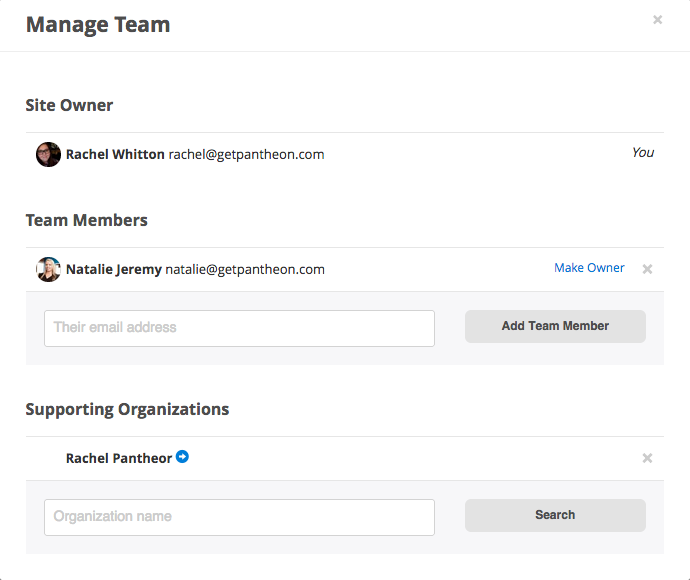
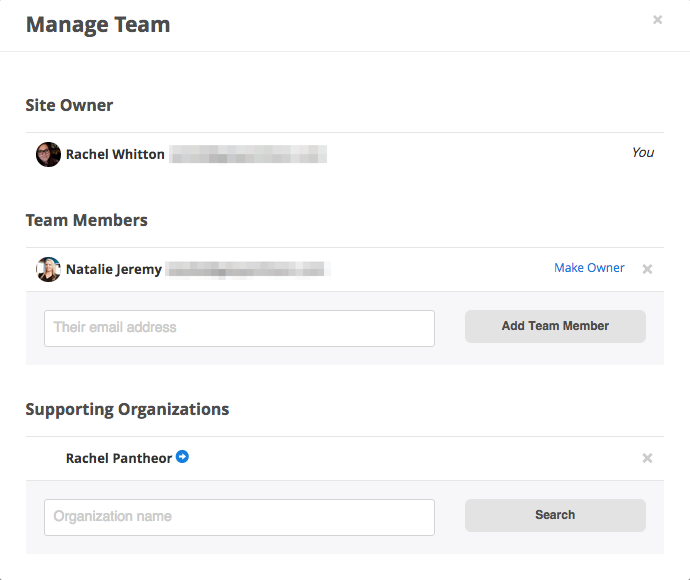
Pixelate contact information - replace images

Changed region(s): [[0.2435, 0.4345, 0.487, 0.4966], [0.2435, 0.2483, 0.487, 0.2793]]

diff --git a/source/docs/articles/sites/team-management.md b/source/docs/articles/sites/team-management.md
@@ -73,6 +73,6 @@ One of the best things about Pantheon is the ability to collaborate with agencie
 
 **Note:** Because supporting organizations have full access to a site, only the site owner can perform this action.
 
- ![Add a supporting organization button](/source/docs/assets/images/multi_org1.jpg)
+ ![Add a supporting organization button](/source/docs/assets/images/multi_org1.png)
 
- ![Confirm supporting organization](/source/docs/assets/images/multi_org2.jpg)
+ ![Confirm supporting organization](/source/docs/assets/images/multi_org2.png)
